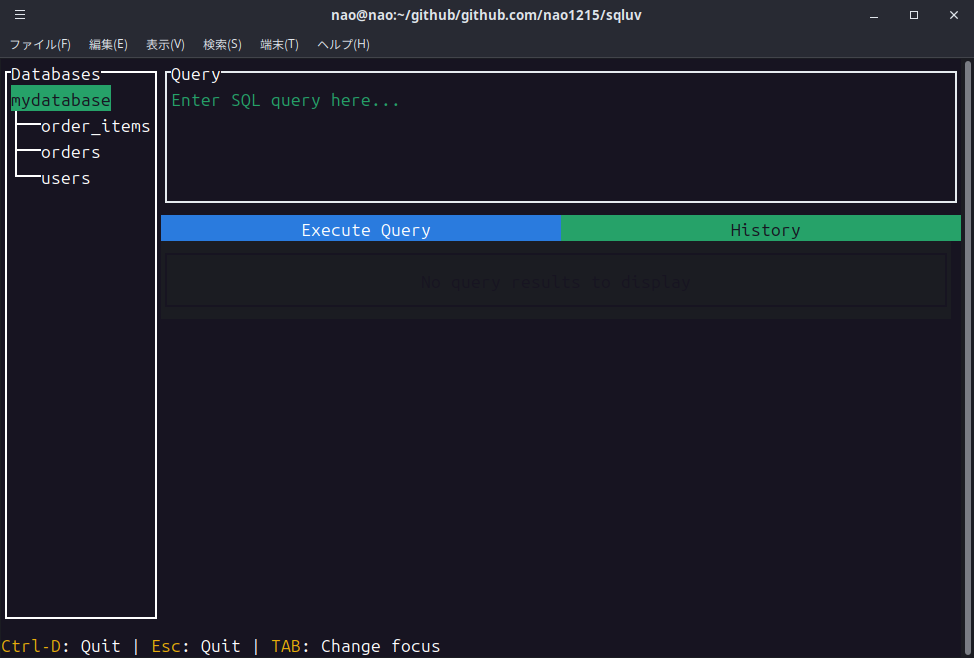
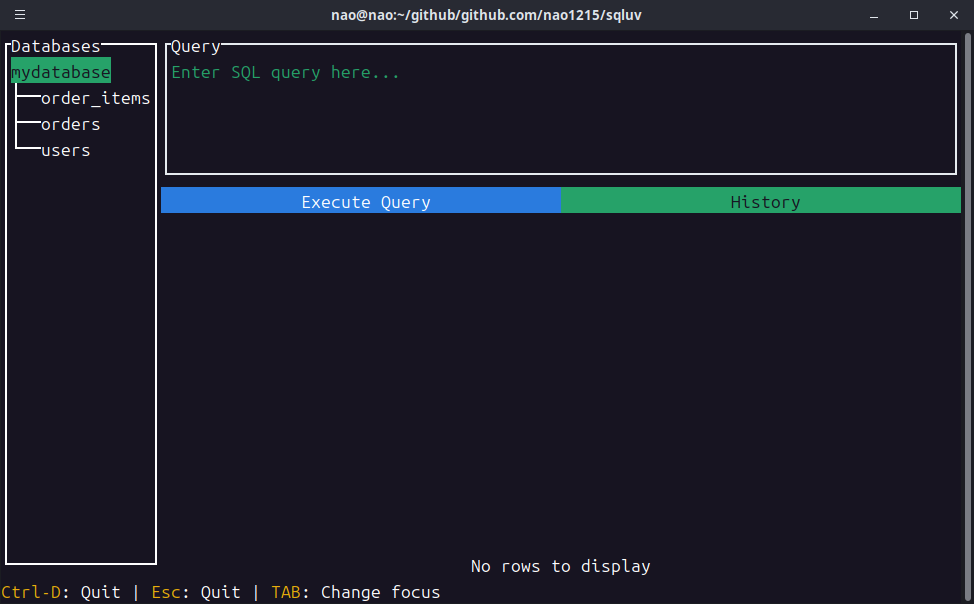
[Feat] add rows count

diff --git a/tui/tui.go b/tui/tui.go
@@ -6,6 +6,7 @@ import (
 	"fmt"
 	"regexp"
 	"strings"
+	"time"
 
 	"github.com/gdamore/tcell/v2"
 	"github.com/nao1215/sqluv/config"
@@ -53,6 +54,8 @@ type TUI struct {
 	dbmsUsecases    *dbmsUsecases
 	historyUsecases *historyUsecases
 	dbConfig        *config.DBConfig // Database configuration manager
+
+	lastExecutionTime float64 // Time taken to execute the last query
 }
 
 // NewTUI creates a new TUI instance.
@@ -390,6 +393,7 @@ func (t *TUI) recordUserRequest(ctx context.Context, request string) error {
 
 // executeDBMSQuery executes SQL query against connected DBMS
 func (t *TUI) executeDBMSQuery(ctx context.Context, sql *model.SQL) error {
+	startTime := time.Now()
 	output, err := t.dbmsUsecases.queryExecutor.ExecuteQuery(ctx, sql)
 	if err != nil {
 		return err
@@ -402,13 +406,16 @@ func (t *TUI) executeDBMSQuery(ctx context.Context, sql *model.SQL) error {
 		t.showRowsAffectedInfo(output.RowsAffected())
 	}
 	if output.HasTable() || sql.IsDelete() {
-		t.home.resultTable.update(output.Table())
+		t.lastExecutionTime = time.Since(startTime).Seconds()
+		t.home.resultTable.update(output.Table(), t.home.rowStatistics, t.lastExecutionTime)
+		t.updateRowStatistics(output.Table(), startTime)
 	}
 	return nil
 }
 
 // executeLocalQuery executes SQL query against local file data
 func (t *TUI) executeLocalQuery(ctx context.Context, sql *model.SQL) error {
+	startTime := time.Now()
 	output, err := t.localUsecases.sqlExecutor.ExecuteSQL(ctx, sql)
 	if err != nil {
 		return err
@@ -418,7 +425,9 @@ func (t *TUI) executeLocalQuery(ctx context.Context, sql *model.SQL) error {
 		t.showRowsAffectedInfo(output.RowsAffected())
 	}
 	if output.HasTable() || sql.IsDelete() {
-		t.home.resultTable.update(output.Table())
+		t.lastExecutionTime = time.Since(startTime).Seconds()
+		t.home.resultTable.update(output.Table(), t.home.rowStatistics, t.lastExecutionTime)
+		t.updateRowStatistics(output.Table(), startTime)
 	}
 	return nil
 }
@@ -535,4 +544,17 @@ func normalizeSpaces(input string) string {
 	input = strings.ReplaceAll(input, "\n", " ")
 	input = spaceRegex.ReplaceAllString(input, " ")
 	return strings.TrimSpace(input)
+}
+
+// updateRowStatistics updates the row statistics component with the result information
+func (t *TUI) updateRowStatistics(table *model.Table, startTime time.Time) {
+	if table == nil {
+		t.home.rowStatistics.clear()
+		return
+	}
+
+	t.lastExecutionTime = time.Since(startTime).Seconds()
+	rowCount := len(table.Records())
+	// Use -1 for row and column to indicate no selection yet
+	t.home.rowStatistics.updateSelectedCell(-1, -1, rowCount, t.lastExecutionTime)
 }

diff --git a/tui/query_result_table.go b/tui/query_result_table.go
@@ -22,7 +22,6 @@ func newQueryResultTable() *queryResultTable {
 		SetBorder(false)
 
 	table.SetFixed(1, 0)
-	table.SetSelectable(true, true)
 
 	table.SetSelectedStyle(tcell.StyleDefault.Background(tcell.ColorDefault).Foreground(tcell.ColorDefault))
 	queryResultTable := &queryResultTable{
@@ -48,14 +47,10 @@ func newQueryResultTable() *queryResultTable {
 // After calling this method, the table will be empty and display an empty state message.
 func (q *queryResultTable) clear() {
 	q.Clear()
-	q.SetCell(0, 0, tview.NewTableCell("No query results to display").
-		SetTextColor(tcell.ColorDefault).
-		SetAlign(tview.AlignCenter).
-		SetExpansion(1))
 }
 
 // update updates the table with model.Table data
-func (q *queryResultTable) update(table *model.Table) {
+func (q *queryResultTable) update(table *model.Table, stats *rowStatistics, executionTime float64) {
 	if table == nil {
 		q.clear()
 		return
@@ -82,10 +77,14 @@ func (q *queryResultTable) update(table *model.Table) {
 					SetTextColor(tcell.ColorWhite).
 					SetAlign(tview.AlignLeft).
 					SetMaxWidth(q.calcMaxWidth(table)).
+					SetSelectable(true).
 					SetExpansion(1))
 		}
 	}
 	q.ScrollToBeginning()
+
+	// Set up row selection handling with the updated execution time
+	q.setupRowSelectionHandling(stats, executionTime)
 }
 
 // calcMaxWidth calculates the maximum width of the table.
@@ -99,4 +98,26 @@ func (q *queryResultTable) calcMaxWidth(table *model.Table) int {
 		colWidth = (w - columnCount - 1) / columnCount // Account for borders
 	}
 	return colWidth
+}
+
+// Update the setupRowSelectionHandling function to track cell position
+func (q *queryResultTable) setupRowSelectionHandling(stats *rowStatistics, executionTime float64) {
+	q.SetSelectable(true, true) // Allow both row and column selection
+
+	// Update selection handler to pass both row and column information
+	q.SetSelectedFunc(func(row, col int) {
+		// Don't count header row (row 0) as a data row
+		if row > 0 {
+			totalRows := q.GetRowCount() - 1 // Subtract 1 for header row
+			stats.updateSelectedCell(row-1, col, totalRows, executionTime)
+		}
+	})
+
+	// Add handler for when selection changes without clicking
+	q.SetSelectionChangedFunc(func(row, col int) {
+		if row > 0 {
+			totalRows := q.GetRowCount() - 1
+			stats.updateSelectedCell(row-1, col, totalRows, executionTime)
+		}
+	})
 }

diff --git a/tui/row_statistics.go b/tui/row_statistics.go
@@ -1,0 +1,52 @@
+package tui
+
+import (
+	"fmt"
+
+	"github.com/rivo/tview"
+)
+
+// rowStatistics represents a component that displays row statistics
+type rowStatistics struct {
+	*tview.TextView
+}
+
+// newRowStatistics creates a new row statistics component
+func newRowStatistics() *rowStatistics {
+	textView := tview.NewTextView().
+		SetTextAlign(tview.AlignCenter).
+		SetDynamicColors(true)
+
+	textView.SetBorder(false)
+
+	// Set initial text
+	textView.SetText("No rows to display")
+
+	// Set fixed height for this component
+	textView.SetText("No rows to display")
+
+	return &rowStatistics{
+		TextView: textView,
+	}
+}
+
+// clear resets the statistics display
+func (r *rowStatistics) clear() {
+	r.SetText("No rows to display")
+}
+
+// updateSelectedCell updates the display with the currently selected cell position
+func (r *rowStatistics) updateSelectedCell(selectedRow, selectedCol int, totalRows int, executionTime float64) {
+	var text string
+	if totalRows == 0 {
+		text = "No rows to display"
+	} else if selectedRow == -1 {
+		// No row selected yet
+		text = fmt.Sprintf("[green]%d row(s) in set (%.3f sec)[white]", totalRows, executionTime)
+	} else {
+		// Show both position and total rows
+		text = fmt.Sprintf("[green]Row %d, Column %d, total %d row(s) (%.3f sec)[white]",
+			selectedRow+1, selectedCol+1, totalRows, executionTime)
+	}
+	r.SetText(text)
+}

diff --git a/tui/home.go b/tui/home.go
@@ -12,6 +12,7 @@ type home struct {
 	resultTable   *queryResultTable
 	footer        *footer
 	errorDialog   *errorDialog
+	rowStatistics *rowStatistics
 }
 
 // newHome creates a new home window.
@@ -22,6 +23,7 @@ func newHome(app *tview.Application) *home {
 	historyButton := newHistoryButton()
 	resultTableComponent := newQueryResultTable()
 	footerComponent := newFooter()
+	rowStatisticsComponent := newRowStatistics()
 
 	buttonPanel := tview.NewFlex().
 		AddItem(executeButton, 0, 1, false).
@@ -32,7 +34,8 @@ func newHome(app *tview.Application) *home {
 		SetDirection(tview.FlexRow).
 		AddItem(textArea, 6, 0, true).
 		AddItem(buttonPanel, 1, 0, false).
-		AddItem(resultTableComponent, 0, 1, false)
+		AddItem(resultTableComponent, 0, 1, false).
+		AddItem(rowStatisticsComponent, 1, 0, false)
 
 	// Main content with sidebar and right panel (horizontal layout)
 	mainContent := tview.NewFlex().
@@ -54,5 +57,6 @@ func newHome(app *tview.Application) *home {
 		resultTable:   resultTableComponent,
 		errorDialog:   newErrorDialog(app),
 		footer:        footerComponent,
+		rowStatistics: rowStatisticsComponent,
 	}
 }
